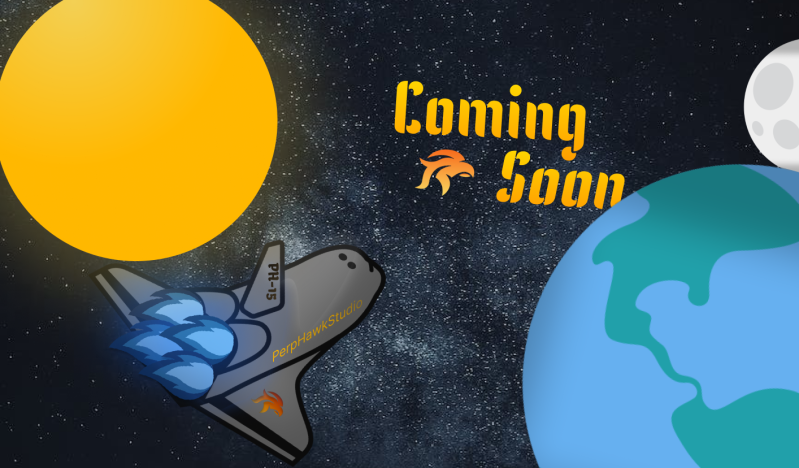
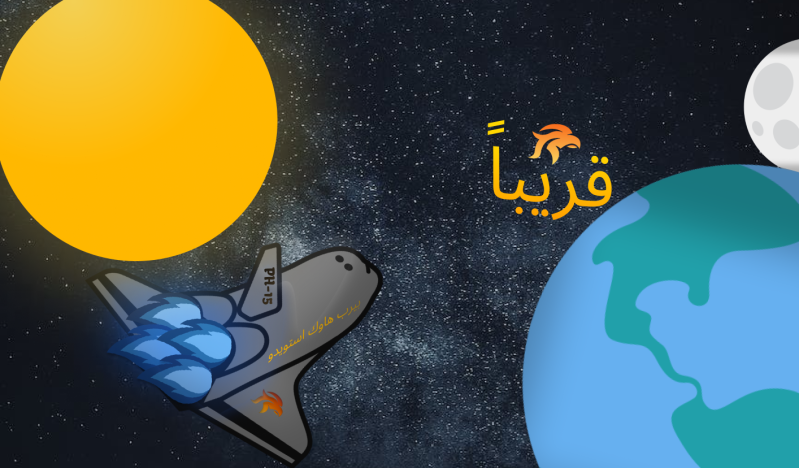
Before i go

diff --git a/About/Ar.html b/About/Ar.html
@@ -1,5 +1,5 @@
 <!DOCTYPE html>
-<html lang="en">
+<html lang="ar">
 <head>
     <meta charset="UTF-8">
     <meta http-equiv="X-UA-Compatible" content="IE=edge">
@@ -9,10 +9,10 @@
     <link rel = "icon" href = 
 "/imgs/NewLogo-Clear.png" 
         type = "image/x-icon">
-        <meta property="og:title" content="PerpHawkStudio For Technology And Development |Soon..." />
+        <meta property="og:title" content="بيرب هاوك استوديو للتكنولوجيا و التطوير | قريباً" />
 <meta property="og:type" content="website" />
 <meta property="og:url" content="" />
-<meta property="og:image" content="/imgs/SoonEn.png">
+<meta property="og:image" content="/imgs/SoonAR.png">
 <meta name="theme-color" content="#dab200">
 <meta name="twitter:card" content="summary_large_image">
     <link rel="stylesheet" href="https://cdnjs.cloudflare.com/ajax/libs/font-awesome/5.15.3/css/all.min.css"/>
@@ -45,16 +45,16 @@
              <span class="bar"></span>
            </div>
            <ul class="navbar">
-             <li class="nav-item"><a href="#About">About</a></li>
-             <li class="nav-item"><a href="#Work">Work</a></li>
-             <li class="nav-item"><a href="#Team">Team</a></li>
-             <li class="nav-item"><a href="#Contact">Contact Us</a></li>
+            <li class="nav-item"><a href="#AboutUs">من نحن؟</a></li>
+             <li class="nav-item"><a href="#Work">المحتوى</a></li>
+             <li class="nav-item"><a href="#Team">الفريق</a></li>
+             <li class="nav-item"><a href="#Contact">تواصل معنا</a></li>
              
            </ul>
          </nav>
          </div>
          <section class="headline">
-           <h1><span>Soon...</span></h1>
+           <h1><span>قريباً</span></h1>
            <p id="Time2"></p>
            <script>
             // Set the date we're counting down to
@@ -94,24 +94,24 @@
            </div>
           </section>
     </div>
-    <div class="about-box">
-      <h2 class="AboutUs">About Us</h2>
-      <h4>Welcome to our Website.</h4>
-      <h4>Perp Hawk Studio offers you diverse and distinctive content</h4>
-      <h4>In it we talk about technology news</h4>
-      <h4>and explain to you how to develop them </h4>
-      <h4>We give you tips for your computer or even your mobile device </h4>
+    <div class="about-box" style="text-align: right;">
+      <h2 class="AboutUs">من نحن؟</h2>
+      <h4>مرحباً بكم في موقعنا</h4>
+      <h4>بريب هاوك استوديو يقدم لك محتوى متنوع و مميز</h4>
+      <h4>نتحدث فيه عن اخبار التكنولوجيا</h4>
+      <h4>و نقوم بتطوير برامج و نشرح لك كيفية تطويرها </h4>
+      <h4>نعطيك نصائح لجهاز الكمبيوتر الخاص بك او حتي جهزك المحمول </h4>
     </div>
     <section class="cards" id="Work">
-      <h2 class="title">The Content We offers.</h2>
+      <h2 class="title">المحتوى الذي نقدمه</h2>
       <div class="content">
           <div class="card">
               <div class="icon">
                   <i class="fas fa-laptop-code"></i>
               </div>
               <div class="info">
-                  <h3>Web Development</h3>
-                  <p>we are creating a Special Wesites</p>
+                  <h3>تطوير مواقع انترنت</h3>
+                  <p>نصنع مواقع مميزة</p>
               </div>
           </div>
           <div class="card">
@@ -119,8 +119,8 @@
                   <i class="fas fa-atom"></i>
               </div>
               <div class="info">
-                  <h3>App Development</h3>
-                  <p>creating an electron Application</p>
+                  <h3> تطيور تطبيقات</h3>
+                  <p>نصنع تطبيقات لجهازك والعاب</p>
 
               </div>
           </div>
@@ -129,8 +129,8 @@
                 <i class="fas fa-user"></i>
             </div>
             <div class="info">
-                <h3>Learn</h3>
-                <p>Learning content</p>
+                <h3>تعليم</h3>
+                <p>نقدم لك محتوى تعليمي للبرمجة</p>
             </div>
         </div>
         <div class="card">
@@ -138,8 +138,8 @@
               <i class="fas fa-music"></i>
           </div>
           <div class="info">
-              <h3>Music</h3>
-              <p>creating a Music Content</p>
+              <h3>موسيقى</h3>
+              <p>نقدم لك اغاني الكترونية و متنوعة</p>
           </div>
       </div>
       </div>
@@ -151,8 +151,8 @@
                     <i class="fas fa-user"></i>
                 </div>
                 <div class="info">
-                    <h3>Karim</h3>
-                    <p>The Founder And CEO OF PerpHawkStudio,Developer</p>
+                    <h3>كريم</h3>
+                    <p>المؤسس و الرئيسي للاستوديو و مطور </p>
                 </div>
             </div>
             <div class="card">
@@ -161,7 +161,7 @@
                 </div>
                 <div class="info">
                     <h3>Youssef</h3>
-                    <p>Founder And Developer</p>
+                    <p>رئيس تنفيذي و مطور</p>
   
                 </div>
             </div>
@@ -170,19 +170,19 @@
                   <i class="fas fa-user"></i>
               </div>
               <div class="info">
-                  <h3>Moayed</h3>
-                  <p>Founder and Desgin Developer</p>
+                  <h3>مؤيد</h3>
+                  <p>رئيس تنفيذي و مصمم ديزاين</p>
               </div>
           </div>
           <section class="cards" id="Contact">
-            <h2 class="title">Contact Us</h2>
+            <h2 class="title">تواصل معنا</h2>
             <div class="content">
                 <div class="card">
                     <div class="icon">
                       <ion-icon name="mail-outline"></ion-icon>
                     </div>
                     <div class="info">
-                        <h3>Email</h3>
+                        <h3>الايميل الاتكتروني للتواصل</h3>
                         <p>hawk_studio@yahoo.com</p>
                     </div>
                 </div>
@@ -191,7 +191,7 @@
                       <ion-icon name="power-outline"></ion-icon>
                     </div>
                     <div class="info">
-                        <h3>OpenSoon After</h3>
+                        <h3>الافتتاح قريباً</h3>
                         <p id="Time">Time</p>
                     </div>
                   </div>
@@ -236,7 +236,7 @@
                 </div>
   </section>
 <footer class="footer" id="footer">
-    <p class="footer-title">Copyright &copy; <span>PerpHawkStudio</span></p>
+    <p class="footer-title">جميع الحقوق محفوظة لدي &copy; <span>بيرب هاوك استوديو</span></p>
         <div class="social-icons">
             <a href="https://github.com/perphawk/perphawk.github.io"><i class="fab fa-github"></i></a>
             <a href="https://www.facebook.com/profile.php?id=100082784070056"><i class="fab fa-facebook"></i></a>

diff --git a/styles/main.css b/styles/main.css
@@ -1,8 +1,24 @@
+@import url('https://fonts.googleapis.com/css2?family=Cairo:wght@300;400;500;600&display=swap');
+
 * {
   margin: 0;
   padding: 0;
   box-sizing: border-box;
-  font-family: 'Lato', 'Arial', sans-serif;
+  font-family: 'Cairo', sans-serif;
+}
+
+::-webkit-scrollbar {
+  width: 8px;
+}
+
+::-webkit-scrollbar-track {
+  box-shadow: inset 0 0 5px grey;
+  border-radius: 2px;
+}
+
+::-webkit-scrollbar-thumb {
+  background: rgb(255, 251, 0);
+  border-radius: 3px;
 }
 
 html {
@@ -10,7 +26,7 @@ html {
   background-color: #222222;
 }
 
-/* HEADINGS */
+
 
 h1, p {
   color: #fff;
@@ -130,6 +146,7 @@ h1, p {
   margin-bottom: 30px;
   background-color: #ffc400;
   border-radius: 2px;
+  width:auto
 }
 
 .card{
